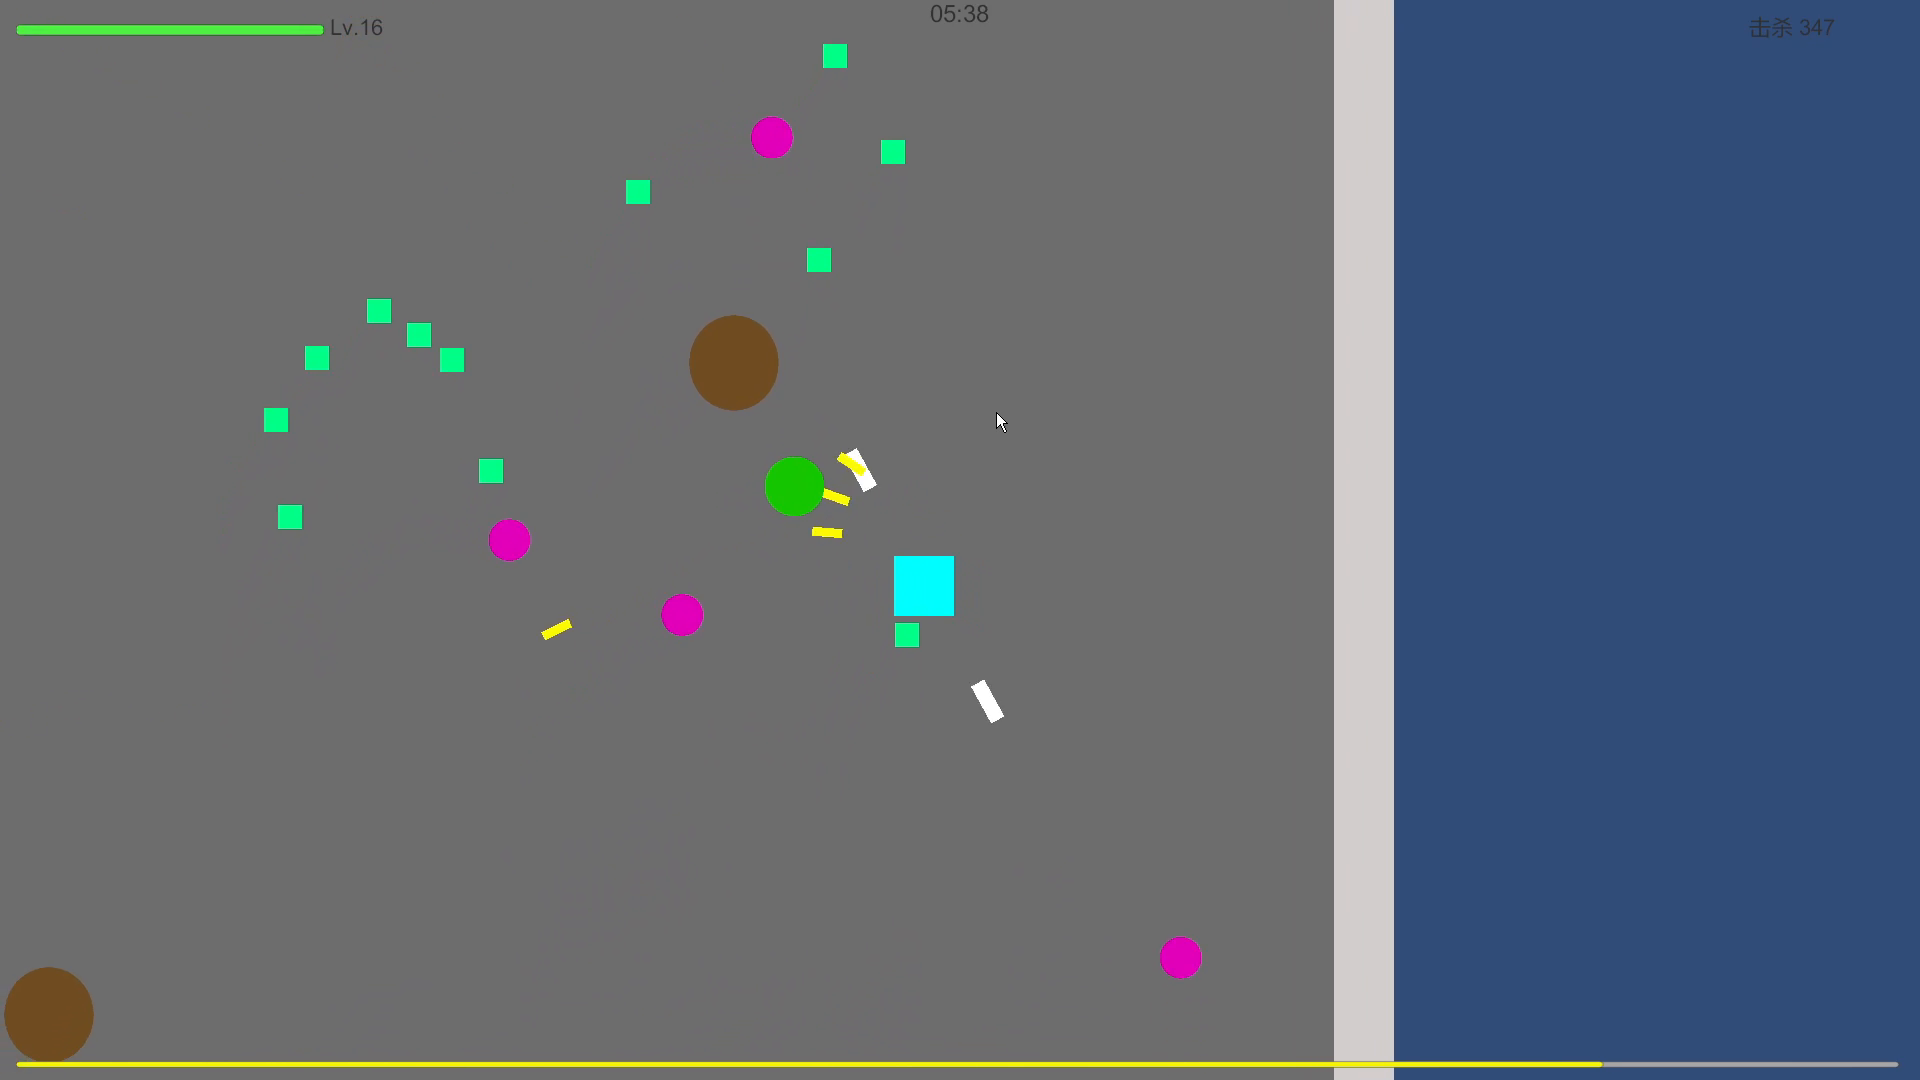
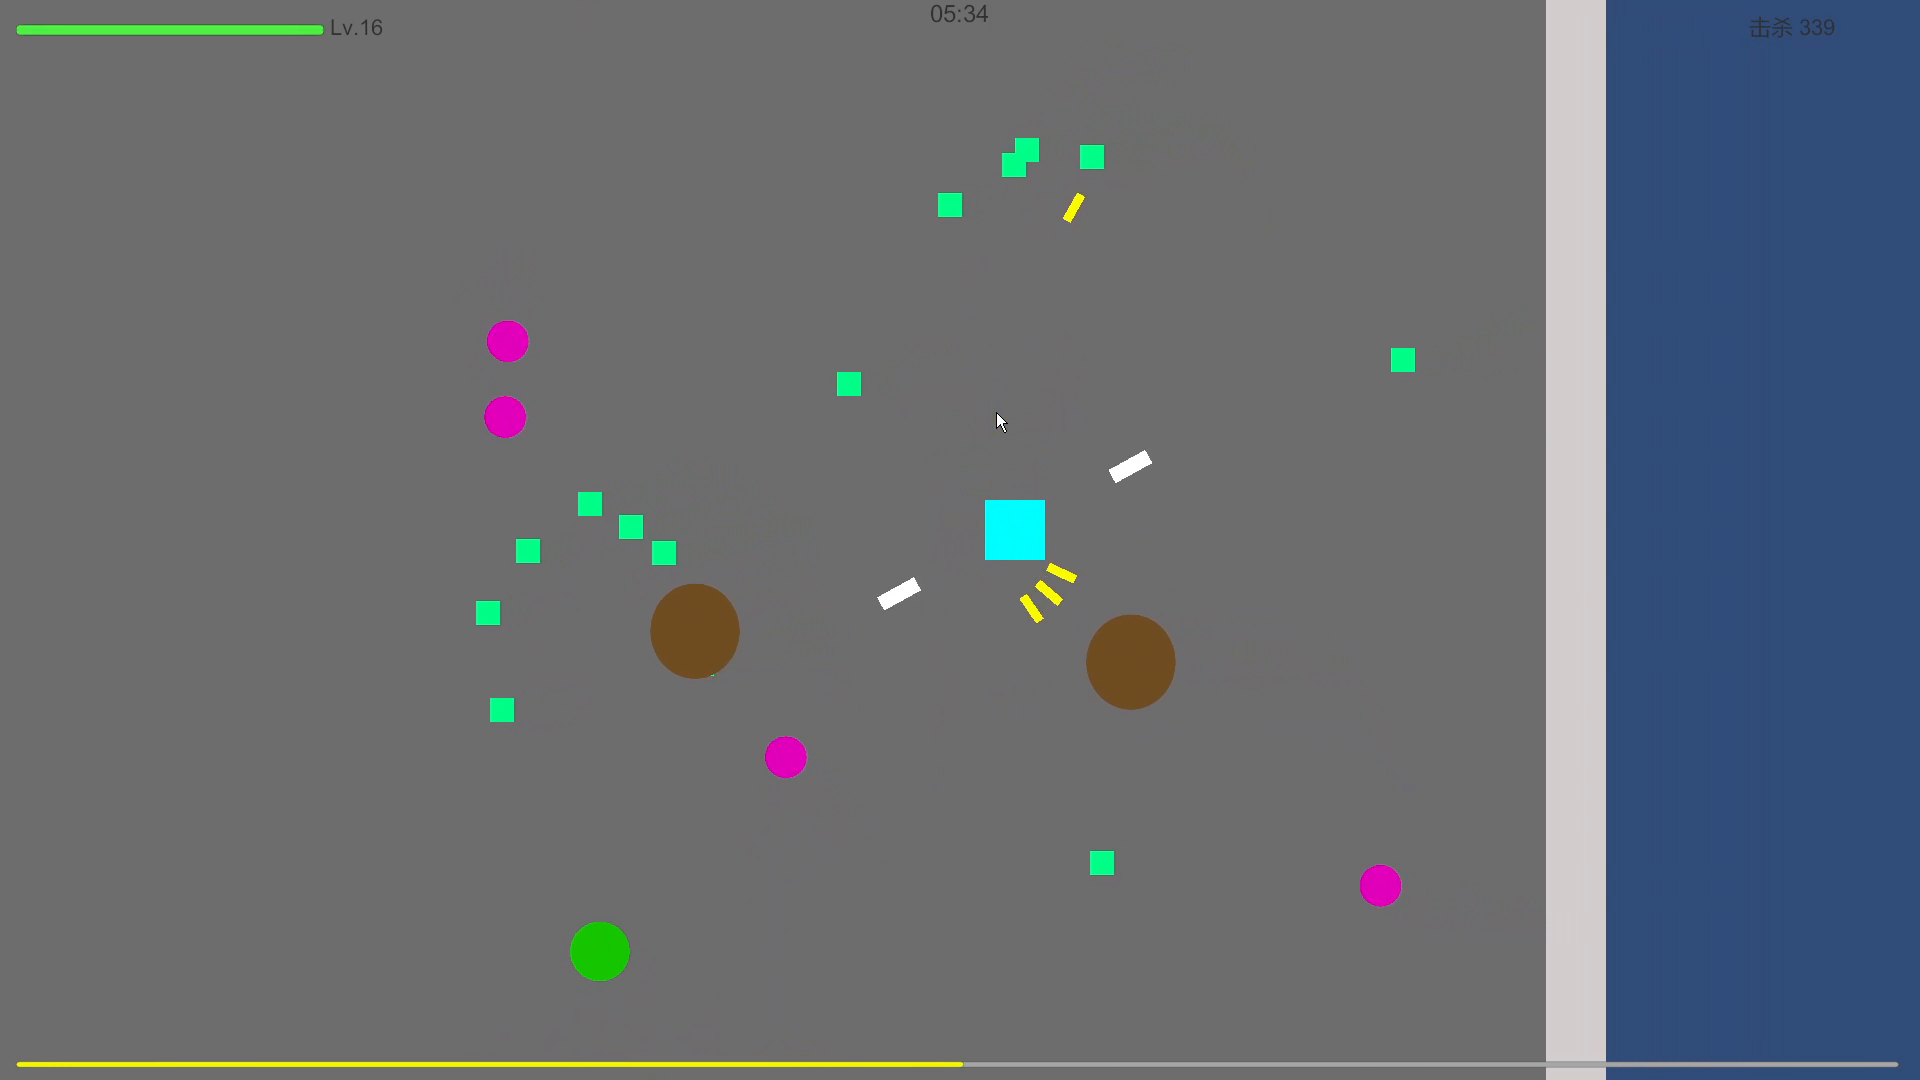
docs：截图区改为全宽单列排版（表格缩略导致面板/Boss/结算不可辨）；Boss 换血条清晰帧、结算换视频末尾干净字幕框帧

diff --git a/README.md b/README.md
@@ -9,11 +9,21 @@
 
 ## 游戏截图（实机录屏截取）
 
-| 开始界面 | 升级三选一（元素精华 / 武器精通同池抽取） |
-|:---:|:---:|
-| ![开始界面](docs/images/01_start.png) | ![升级三选一](docs/images/02_upgrade.png) |
-| **Boss 战（6:00 登场）** | **胜利结算（验收局：6:17 / Lv17 / 400 击杀）** |
-| ![Boss战](docs/images/03_boss.png) | ![胜利结算](docs/images/04_victory.png) |
+**开始界面**
+
+![开始界面](docs/images/01_start.png)
+
+**升级三选一（元素精华 / 武器精通同池抽取，含前置条件）**
+
+![升级三选一](docs/images/02_upgrade.png)
+
+**Boss 战（6:00 登场，三招循环·前摇可读）**
+
+![Boss战](docs/images/03_boss.png)
+
+**胜利结算（验收局：用时 6:17 / Lv17 / 400 击杀）**
+
+![胜利结算](docs/images/04_victory.png)
 
 ## 核心系统
 
